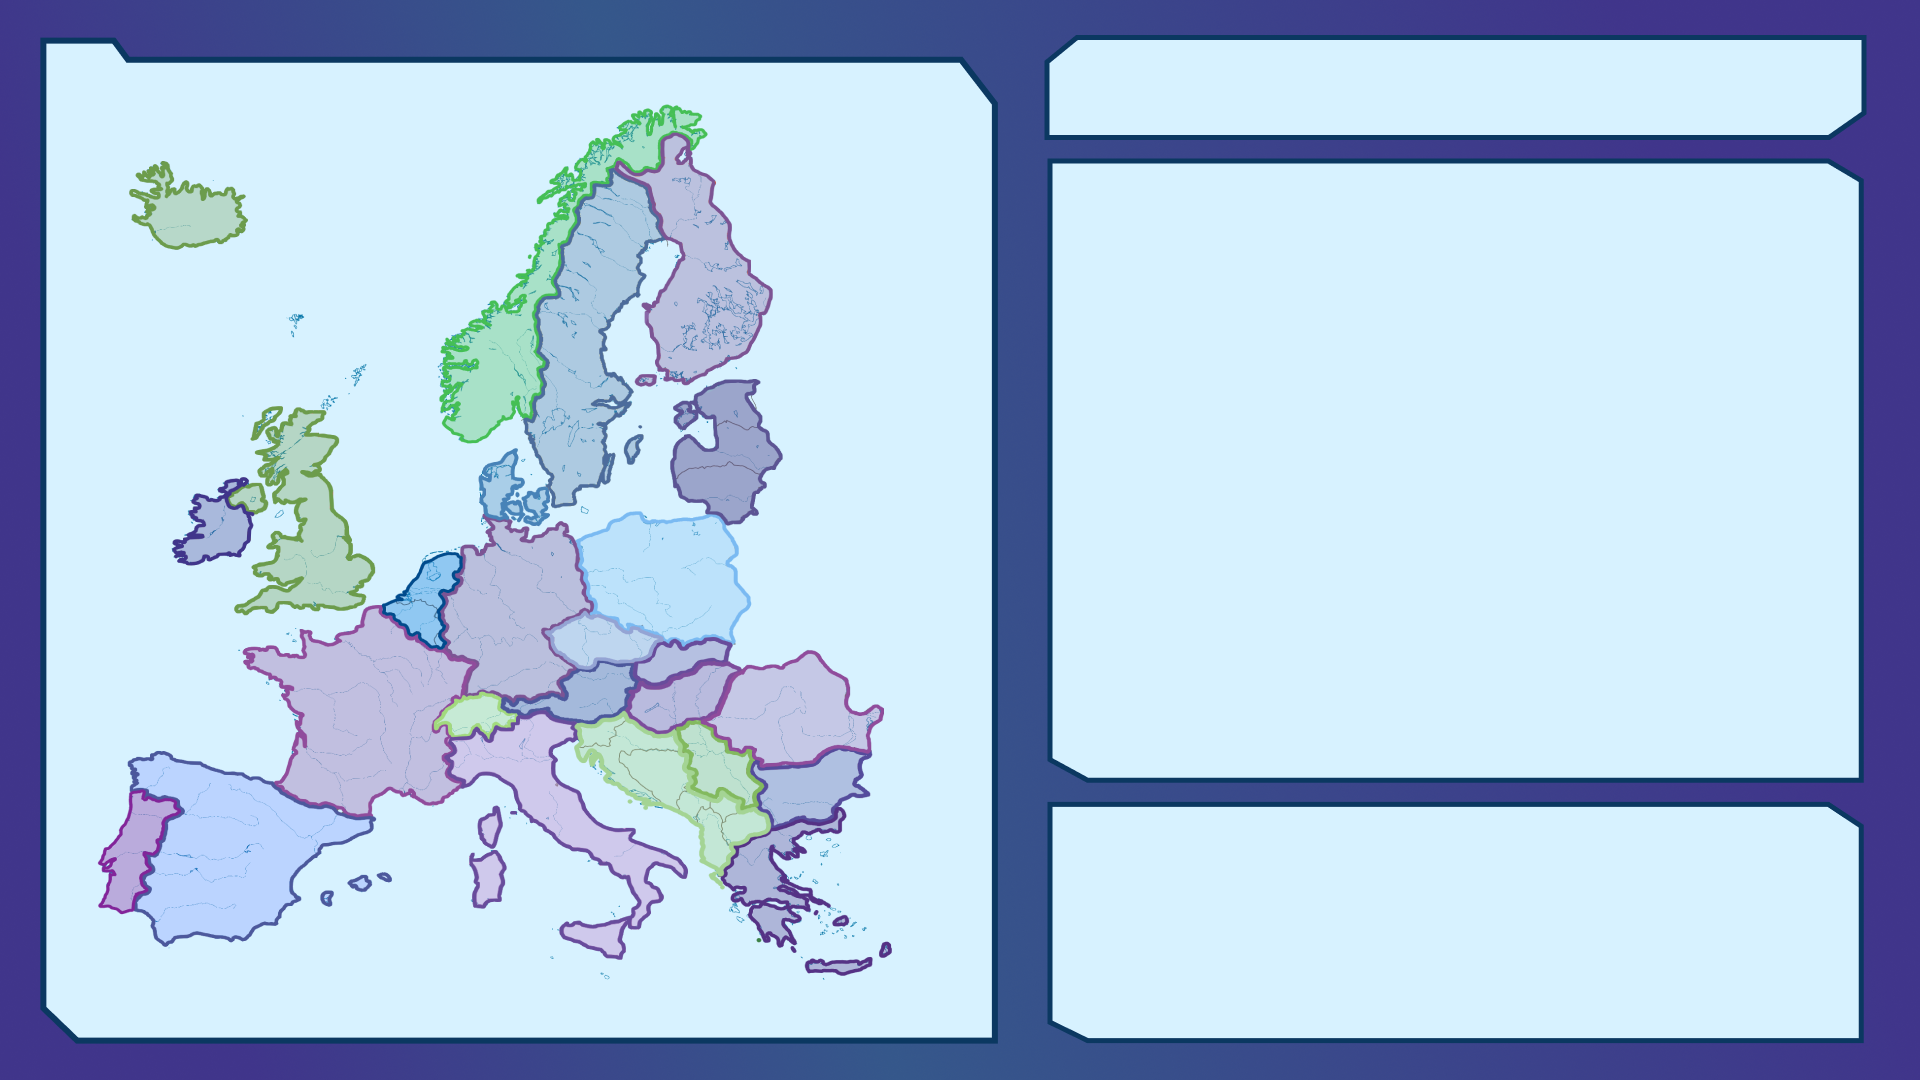
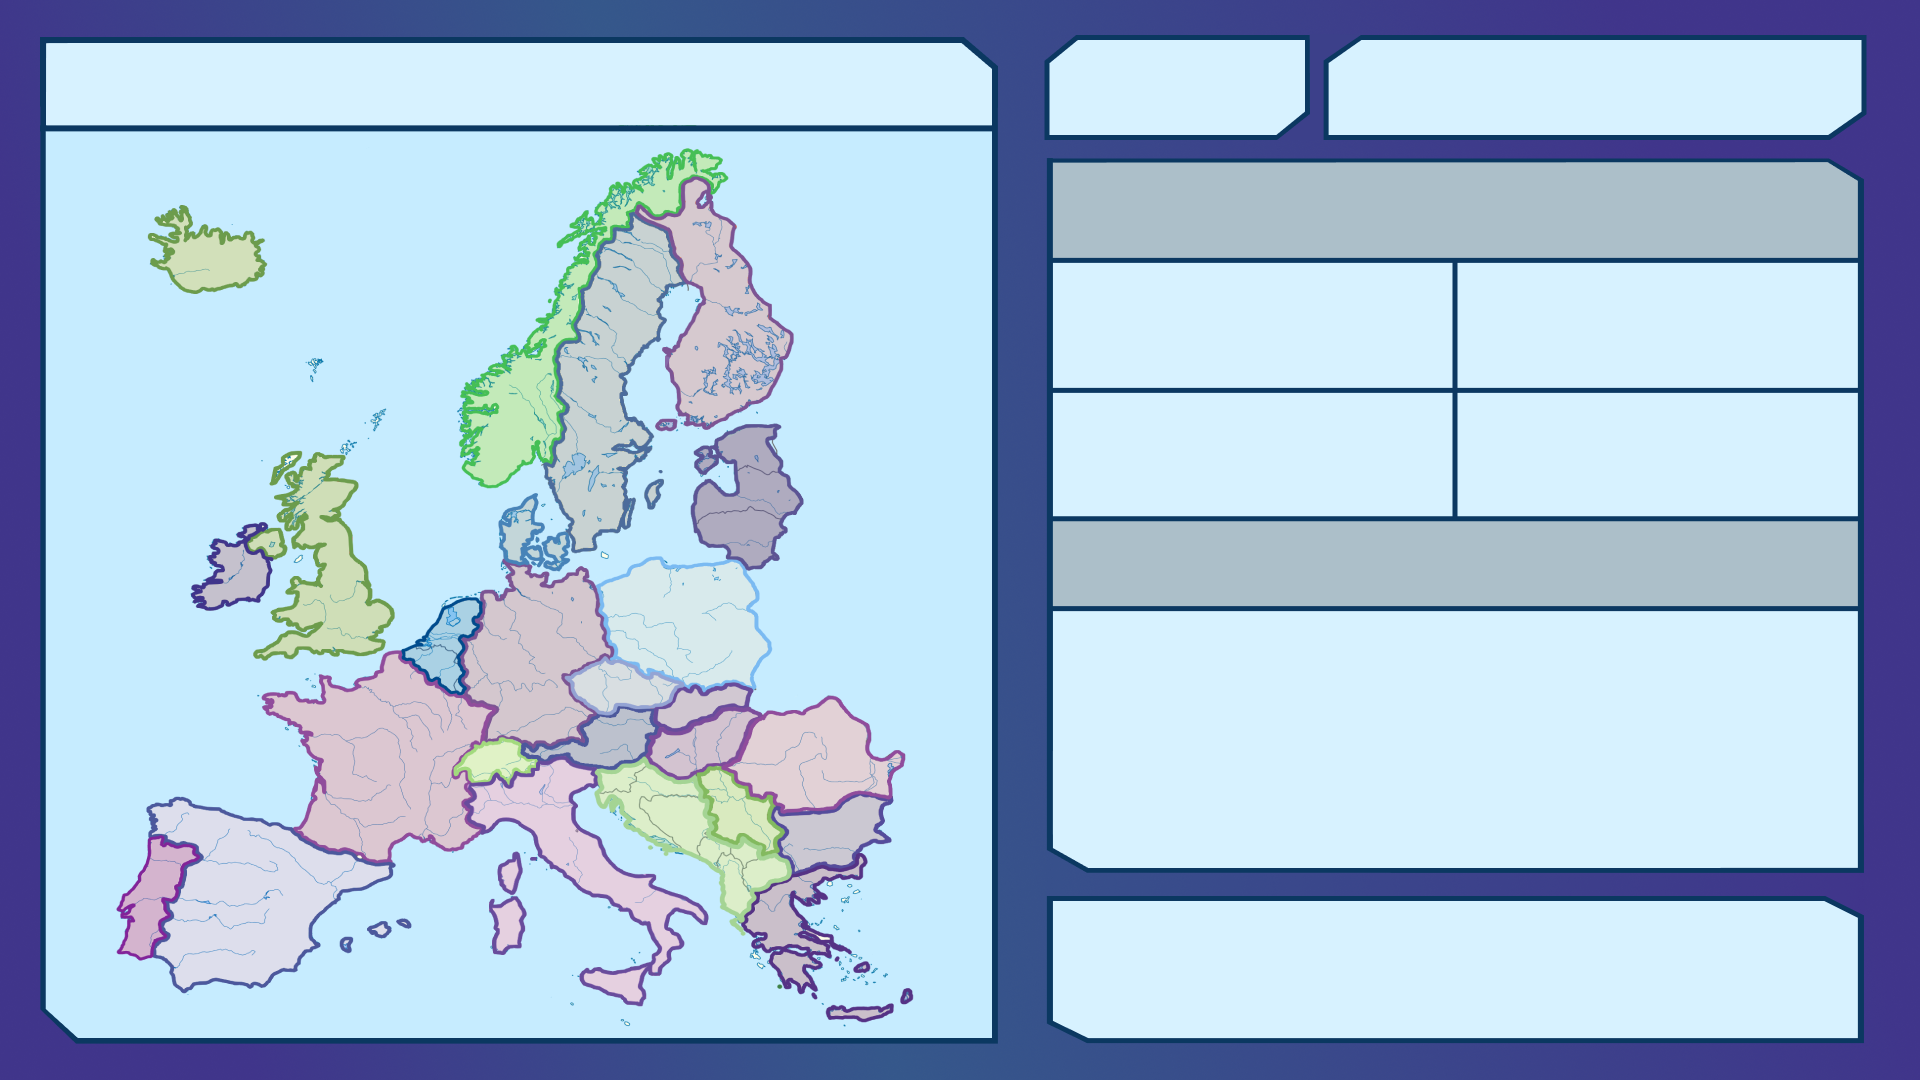
Rework functions and add drawInfo

diff --git a/papyrus/papyrus/game/src/Game.cpp b/papyrus/papyrus/game/src/Game.cpp
@@ -36,18 +36,14 @@ void Game::Update(std::vector<Vector2> coordinates, std::vector<Factory>& factor
 	// Check if mouse is clicked
 	if (IsMouseButtonPressed(MOUSE_BUTTON_LEFT))
 	{
-		if (isCityClicked(coordinates))
-		{
-			factories.at(CheckClickedCity(coordinates)).buyFactory();
-		}
+		isCityClicked(coordinates, factories);
+		//factories[checkSelectedCity(factories, coordinates)].buyFactory();
 	}
 
 	if (IsMouseButtonPressed(MOUSE_BUTTON_RIGHT))
 	{
-		if (isCityClicked(coordinates))
-		{
-			factories.at(CheckClickedCity(coordinates)).upgradeFactory();
-		}
+		isCityClicked(coordinates, factories);
+		//factories[checkSelectedCity(factories, coordinates)].upgradeFactory();
 	}
 
 	for (int i = 0; i < 30; i++)
@@ -112,8 +108,11 @@ void Game::Draw(Texture2D menu, Texture2D map, Texture2D button_exit, Texture2D 
 		// Place the cites on the map
 		drawCities(coordinates, factories);
 
-		// Display score
-		DrawText(TextFormat("%i", bank.getBalance()), 1100, 70, 40, BLACK);
+		// Display balance
+		DrawText(TextFormat("Euros %i", bank.getBalance()),70, 64, 50, BLACK);
+
+		//Display info
+		drawInfo(factories, coordinates);
 	}
 }
 
@@ -136,7 +135,7 @@ void drawCities(std::vector<Vector2> coordinates, std::vector<Factory> factories
 	}
 }
 
-bool isCityClicked(std::vector<Vector2> coordinates)
+void isCityClicked(std::vector<Vector2> coordinates, std::vector<Factory>& factories)
 {
 	Vector2 mousePos;
 
@@ -149,27 +148,48 @@ bool isCityClicked(std::vector<Vector2> coordinates)
 	{
 		if (CheckCollisionPointCircle(mousePos, coordinates[i], 8))
 		{
-			return true;
+			factories[i].isSelected = true;
 		}
 	}
-	return false;
 }
 
-int CheckClickedCity(std::vector<Vector2> coordinates)
+void drawInfo(std::vector<Factory> &factories, std::vector<Vector2> coordinates)
 {
-	Vector2 mousePos;
-
-	// Get the positions of the mouse
-	mousePos.x = GetMouseX();
-	mousePos.y = GetMouseY();
-
-	// Check if mouse collides with the cities
 	for (int i = 0; i < coordinates.size(); i++)
 	{
-		if (CheckCollisionPointCircle(mousePos, coordinates[i], 8))
+		if (factories[i].isSelected)
+		{
+			DrawText(TextFormat("Level %i", factories[i].getTier()), 1070, 69, 50, BLACK);
+			DrawText("Statistics", 1305, 186, 60, BLACK);
+			DrawText("Income", 1160, 303, 55, BLACK);
+			DrawText("Country", 1137, 430, 55, BLACK);
+			DrawText("Buy", 1260, 780, 65, BLACK);
+			DrawText(TextFormat("%s", factories[i].getName()), 200, 200, 60, BLACK);
+			DrawText("Product", 1127, 537, 60, BLACK);
+		}
+		else
+		{
+			DrawText("Level", 1070, 69, 50, BLACK);
+			DrawText("Statistics", 1305, 186, 60, BLACK);
+			DrawText("Income", 1160, 303, 55, BLACK);
+			DrawText("Country", 1137, 430, 55, BLACK);
+			DrawText("Buy", 1260, 780, 65, BLACK);
+			DrawText("Product", 1127, 537, 60, BLACK);
+		}
+	}
+}
+
+int checkSelectedCity(std::vector<Factory>& factories, std::vector<Vector2> coordinates)
+{
+	for (int i = 0; i < coordinates.size(); i++)
+	{
+		if (factories[i].isSelected)
 		{
 			return i;
 		}
+		else
+		{
+			isCityClicked(coordinates, factories);
+		}
 	}
-	return -1;
-}
+} 

diff --git a/papyrus/papyrus/game/src/Game.h b/papyrus/papyrus/game/src/Game.h
@@ -14,7 +14,7 @@ public:
 	~Game() noexcept;
 
 	bool GameShouldClose() const;
-	void Tick(Texture2D menu, Texture2D map, Texture2D button_exit, Texture2D button_play, std::vector<Factory> &factories, std::vector<Vector2> coordinates);
+	void Tick(Texture2D menu, Texture2D map, Texture2D button_exit, Texture2D button_play, std::vector<Factory>& factories, std::vector<Vector2> coordinates);
 
 private:
 	void Update(std::vector<Vector2> coordinates, std::vector<Factory> &factories);
@@ -23,5 +23,9 @@ private:
 
 void drawCities(std::vector<Vector2> coordinates, std::vector<Factory> factories);
 
-bool isCityClicked(std::vector<Vector2> coordinates);
-int CheckClickedCity(std::vector<Vector2> coordinates);
+void isCityClicked(std::vector<Vector2> coordinates, std::vector<Factory>& factories);
+//int CheckClickedCity(std::vector<Vector2> coordinates, std::vector<Factory>& factories);
+
+void drawInfo(std::vector<Factory>& factories, std::vector<Vector2> coordinates);
+
+int checkSelectedCity(std::vector<Factory>& factories, std::vector<Vector2> coordinate);

diff --git a/papyrus/papyrus/game/src/papyrus_main.cpp b/papyrus/papyrus/game/src/papyrus_main.cpp
@@ -14,6 +14,8 @@ int main()
 	Texture2D button_exit = LoadTexture("../Images/button_exit.png");
 	Texture2D button_play = LoadTexture("../Images/button_play.png");
 
+	//Font setback = LoadFont("../setbackt.ttf");
+
 	static std::vector<Factory> factories = createFactory();
 
 	static std::vector<Vector2> coordinates = getCoordinates(factories);

diff --git a/papyrus/papyrus/game/src/Factory.cpp b/papyrus/papyrus/game/src/Factory.cpp
@@ -60,6 +60,7 @@ void Factory::buyFactory()
 			bank.setBalance(bank.getBalance() - this->getBuyPrice());
 			this->isOwned = true;
 
+
 			// Increase the income with the price of the product
 			bank.setIncome(this->getProduct().getSellingPrice() - this->getProduct().getProductionCost());
 		}

diff --git a/papyrus/papyrus/game/src/Factory.h b/papyrus/papyrus/game/src/Factory.h
@@ -34,6 +34,7 @@ public:
 	Vector2 getCoordinates();
 
 	bool isOwned = false;
+	bool isSelected = false;
 	int maxSpeed = 500;
 	int productionSpeed = maxSpeed;
 
